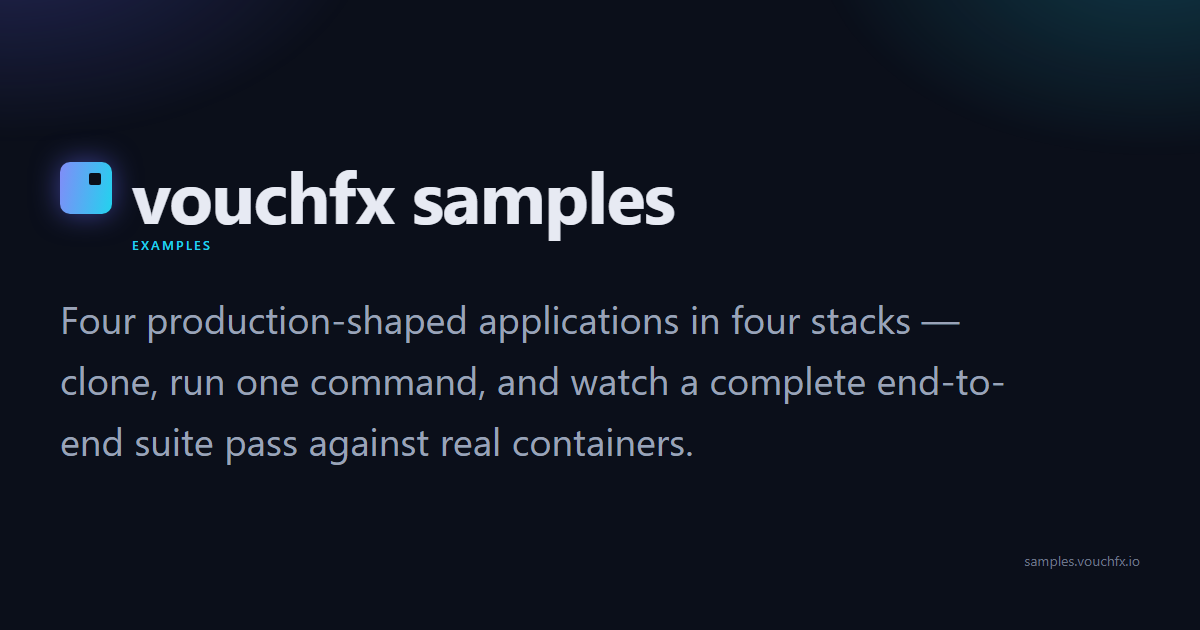
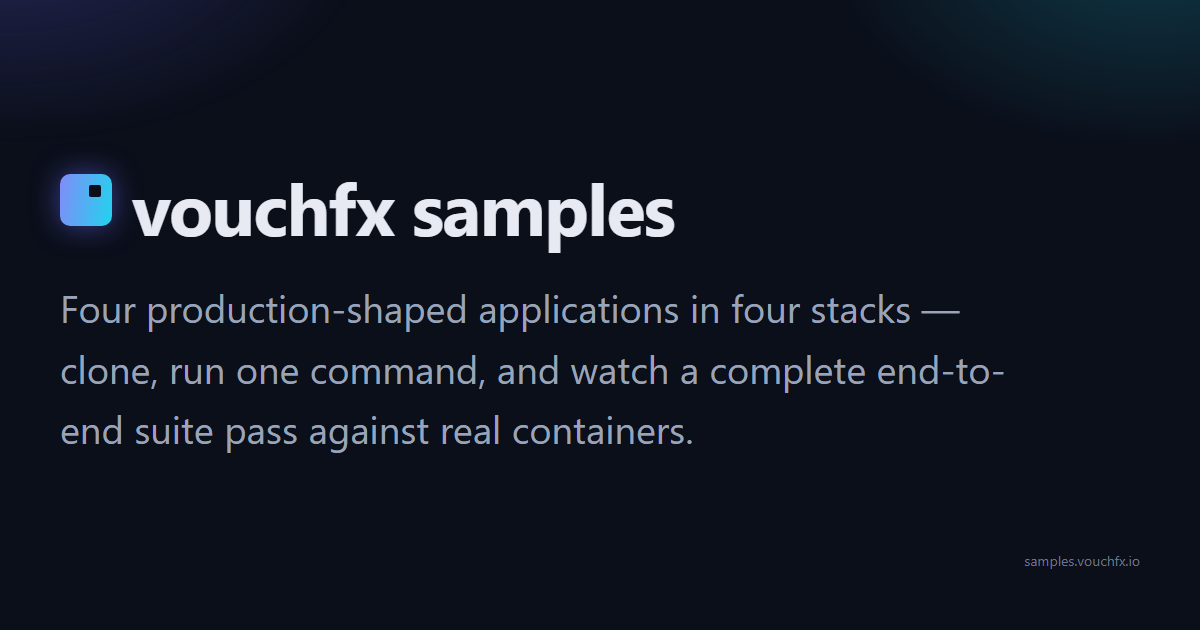
feat(site): fleet SEO parity — semantic headings, llms.txt, og-image refresh (Wave 2)
Bump the pinned vouchfx-site-tools SHA to 5d93bcf4cf2bc1a79ee5080dcfb91f3b2ef0909f
(engine merge adding SiteConfig.semantic_headings and SiteConfig.llms_summary,
specs/seo-fleet-audit.md B1/B2/B3) and opt this site into both:

- semantic_headings=True: a rendered doc page's own markdown title now renders
  a real <h1> instead of <h2> (D-09), and the sidebar nav-group label drops out
  of the heading outline (<p class="doc-side__group"> instead of <h4>).
  site/docs.css renames the .doc-side h4 selector to match, and remaps the
  .prose h1-h3 rules one level up (with the headerlink hover-reveal rule) so
  every rendered page keeps its exact current appearance despite the level
  shift — verified via computed-style comparison (font-size, margin, border,
  color, headerlink opacity) between a pre-change and post-change build of
  docs/RUNNING.html, all values identical.
- llms_summary set (site_url was already set): build() now also emits
  llms.txt, and each DOCS entry gains a fourth, genuinely informative
  description element (drawn from this repo's own existing docs.html portal
  copy) that llms.txt uses in place of the generic fallback text.

Also replaces site/og-image.png with the re-rendered card (eyebrow label
removed for spec compliance) — same dimensions (1200x630) and same brand
palette, only the asset bytes change.

diff --git a/site/docs.css b/site/docs.css
@@ -35,8 +35,8 @@
 /* ---- Rendered doc layout ---- */
 .doc-shell { max-width: 1240px; margin: 0 auto; padding: 0 24px; display: grid; grid-template-columns: 240px minmax(0, 1fr) 220px; gap: 40px; }
 .doc-side { position: sticky; top: 72px; align-self: start; max-height: calc(100vh - 96px); overflow-y: auto; padding: 28px 0; }
-.doc-side h4 { font-size: .7rem; text-transform: uppercase; letter-spacing: .14em; color: var(--muted-2); margin: 18px 0 8px; }
-.doc-side h4:first-child { margin-top: 0; }
+.doc-side__group { font-size: .7rem; text-transform: uppercase; letter-spacing: .14em; color: var(--muted-2); margin: 18px 0 8px; }
+.doc-side__group:first-child { margin-top: 0; }
 .doc-side a { display: block; padding: 5px 10px; border-radius: 7px; font-size: .87rem; color: var(--muted); border-left: 2px solid transparent; }
 .doc-side a:hover { color: var(--text); background: rgba(255,255,255,.03); }
 .doc-side a.active { color: var(--text); border-left-color: var(--violet); background: rgba(129,140,248,.08); }
@@ -57,12 +57,11 @@
 .doc-breadcrumb a:hover { color: var(--text); }
 .prose { color: #cdd4e4; line-height: 1.72; font-size: 1rem; }
 .prose > :first-child { margin-top: 0; }
-.prose h1 { font-size: 2rem; line-height: 1.2; letter-spacing: -.02em; color: var(--text); margin: 0 0 8px; }
-.prose h2 { font-size: 1.5rem; letter-spacing: -.01em; color: var(--text); margin: 2.2em 0 .6em; padding-top: .4em; border-top: 1px solid var(--border); }
-.prose h3 { font-size: 1.2rem; color: var(--text); margin: 1.8em 0 .5em; }
-.prose h4 { font-size: 1.02rem; color: var(--text); margin: 1.5em 0 .5em; }
-.prose h2 a.headerlink, .prose h3 a.headerlink { opacity: 0; margin-left: 8px; color: var(--violet); text-decoration: none; font-weight: 400; }
-.prose h2:hover a.headerlink, .prose h3:hover a.headerlink { opacity: 1; }
+.prose h1 { font-size: 1.5rem; letter-spacing: -.01em; color: var(--text); margin: 2.2em 0 .6em; padding-top: .4em; border-top: 1px solid var(--border); }
+.prose h2 { font-size: 1.2rem; color: var(--text); margin: 1.8em 0 .5em; }
+.prose h3 { font-size: 1.02rem; color: var(--text); margin: 1.5em 0 .5em; }
+.prose h1 a.headerlink, .prose h2 a.headerlink { opacity: 0; margin-left: 8px; color: var(--violet); text-decoration: none; font-weight: 400; }
+.prose h1:hover a.headerlink, .prose h2:hover a.headerlink { opacity: 1; }
 .prose p { margin: 0 0 1.1em; }
 .prose a { color: #8fb6ff; text-decoration: none; border-bottom: 1px solid rgba(143,182,255,.3); }
 .prose a:hover { border-bottom-color: #8fb6ff; }

diff --git a/scripts/build_site.py b/scripts/build_site.py
@@ -81,23 +81,38 @@ from vouchfx_site_tools import SiteConfig, build  # noqa: E402
 # Every DOCS source path must be matched by a paths: glob in
 # .github/workflows/pages.yml (superset invariant) — a page that renders here
 # but whose source path a push to main doesn't trigger on would silently drift.
-DOCS: list[tuple[str, str, str]] = [
+DOCS: list[tuple[str, str, str, str]] = [
     # Start
-    ("docs/RUNNING.md", "Start", "Running the samples"),
-    ("docs/custom-runner.md", "Start", "The custom-runner recipe"),
-    ("docs/migrating.md", "Start", "Migrating to vouchfx"),
+    ("docs/RUNNING.md", "Start", "Running the samples",
+     "What you need installed, the two-command quick start, the four-verdict taxonomy and exit codes, "
+     "and what CI does differently from your machine."),
+    ("docs/custom-runner.md", "Start", "The custom-runner recipe",
+     "How to consume a Community-tier provider today: build a thin executable over the engine's public SDK, "
+     "referencing exactly the providers you need."),
+    ("docs/migrating.md", "Start", "Migrating to vouchfx",
+     "Three worked examples: Postman, xUnit, SpecFlow, each re-authored (not auto-converted) onto the "
+     "orders-dotnet sample, with a field-by-field mapping table and an honest account of what doesn't map."),
 
     # Samples
-    ("samples/orders-dotnet/README.md", "Samples", "Orders · C# + ASP.NET"),
-    ("samples/inventory-python/README.md", "Samples", "Inventory · Python + FastAPI"),
-    ("samples/payments-java/README.md", "Samples", "Payments · Java + Spring Boot"),
-    ("samples/ledger-jsonrpc/README.md", "Samples", "Ledger · Node.js + JSON-RPC"),
+    ("samples/orders-dotnet/README.md", "Samples", "Orders · C# + ASP.NET",
+     "REST to Postgres row to Kafka event to outbound webhook callback. Five steps."),
+    ("samples/inventory-python/README.md", "Samples", "Inventory · Python + FastAPI",
+     "REST to MySQL row to Redis cache entry to RabbitMQ event, with a read-through cache proof. Five steps."),
+    ("samples/payments-java/README.md", "Samples", "Payments · Java + Spring Boot",
+     "REST to SQL Server row to NATS JetStream event to SMTP receipt e-mail. Four steps."),
+    ("samples/ledger-jsonrpc/README.md", "Samples", "Ledger · Node.js + JSON-RPC",
+     "JSON-RPC to Postgres to Kafka to an independent worker role consuming an injected adjustment, via a "
+     "custom runner and the Community rpc.json-rpc provider. Ten steps."),
 
     # Project
-    ("README.md", "Project", "Catalogue & repository README"),
-    ("CONTRIBUTING.md", "Project", "Contributing a sample"),
-    ("SECURITY.md", "Project", "Security policy"),
-    ("CODE_OF_CONDUCT.md", "Project", "Code of conduct"),
+    ("README.md", "Project", "Catalogue & repository README",
+     "Overview, the sample catalogue table, quick start, and directory layout."),
+    ("CONTRIBUTING.md", "Project", "Contributing a sample",
+     "The quality bar for a new sample, and how to add one."),
+    ("SECURITY.md", "Project", "Security policy",
+     "How to report a vulnerability in a sample application or test suite."),
+    ("CODE_OF_CONDUCT.md", "Project", "Code of conduct",
+     "The standards this community holds itself to."),
 ]
 
 # Any additional markdown that is link-reachable but not in the sidebar.
@@ -309,6 +324,16 @@ CONFIG = SiteConfig(
     # specs/seo-custom-domains.md REQ-006: this repo's custom domain. Opts build()
     # into emitting robots.txt + sitemap.xml and supplying {canonical} to PAGE.
     site_url="https://samples.vouchfx.io/",
+    # specs/seo-fleet-audit.md B1/B2: a rendered page's own markdown title now
+    # renders a real <h1>, and the sidebar nav-group label drops out of the
+    # heading outline (paired with the site/docs.css selector rename below).
+    semantic_headings=True,
+    # specs/seo-fleet-audit.md B3: emits llms.txt (site_url is already set above).
+    llms_summary=(
+        "vouchfx samples provides four production-shaped sample applications, in C#, Python, "
+        "Node.js and Java, each pairing a real database, broker or cache with an end-to-end "
+        "integration test suite written for the vouchfx engine and run against real containers."
+    ),
 )
 
 
